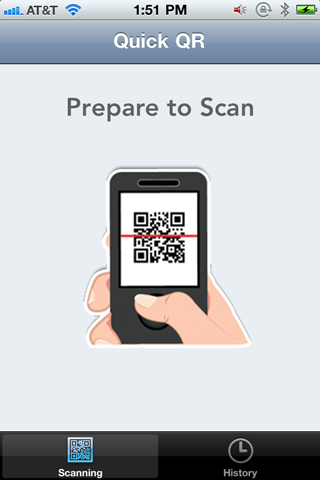
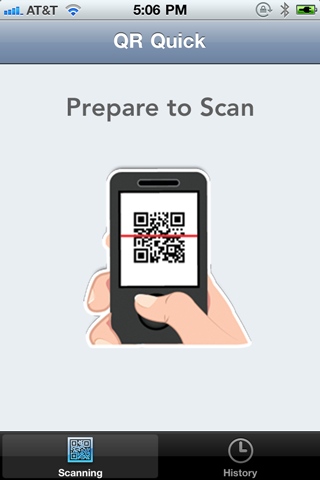
Compressed images and renamed app to QR Quick

diff --git a/iphone/Barcodes/Classes/ZXMainViewController.mm b/iphone/Barcodes/Classes/ZXMainViewController.mm
@@ -46,7 +46,7 @@ static BarcodesAppDelegate *appDelegate;
 // Implement viewDidLoad to do additional setup after loading the view, typically from a nib.
 - (void)viewDidLoad {
   [super viewDidLoad];
-  self.navigationItem.title = @"Quick QR";
+  self.navigationItem.title = @"QR Quick";
 //    NSLog(@"opend");
     [prepareImage setHidden:YES];
     appDelegate = (BarcodesAppDelegate *)[[UIApplication sharedApplication] delegate];
